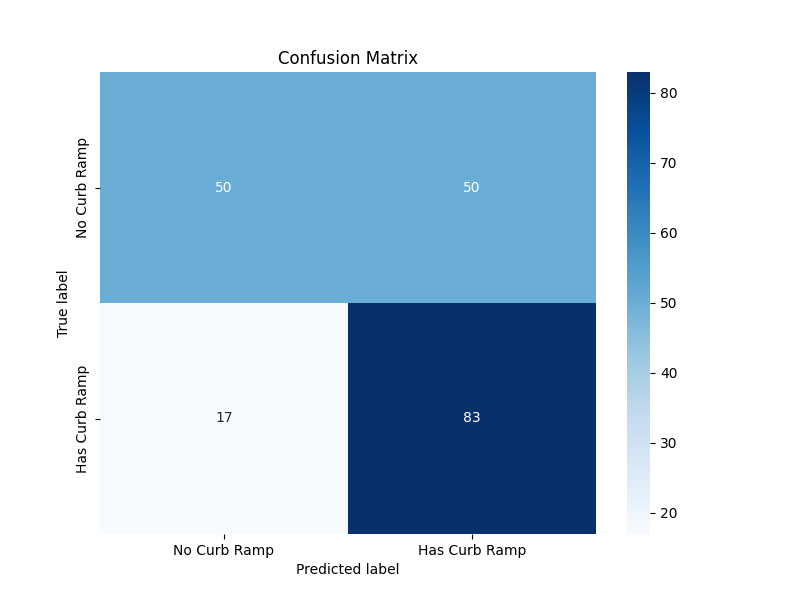
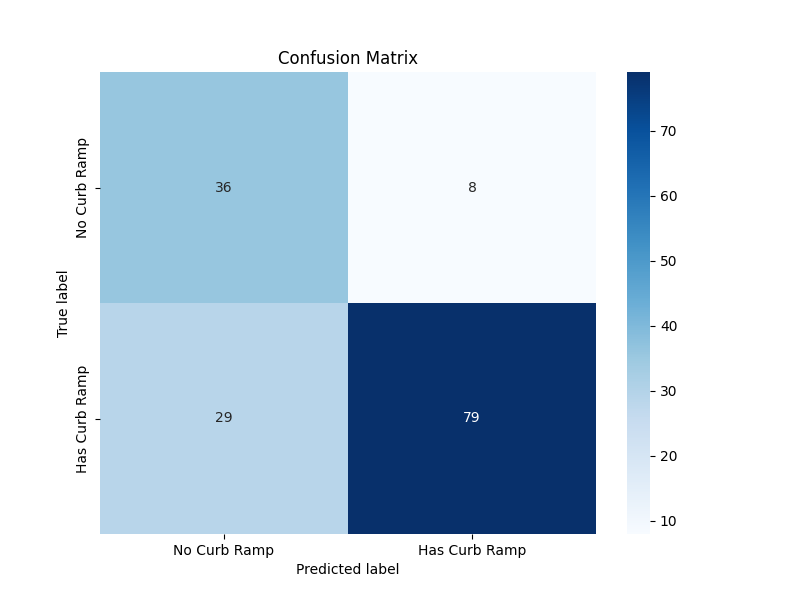
Cosmos and Storage

diff --git a/score_model.py b/score_model.py
@@ -3,18 +3,43 @@ import numpy as np
 import matplotlib.pyplot as plt
 from sklearn.metrics import confusion_matrix
 import seaborn as sns
-import json
+from azure.cosmos import CosmosClient
+import os
+from dotenv import load_dotenv
 
-# read the curb_ramp_list.json file 
-with open("curb_ramp_list.json", "r") as f:
-    data = json.load(f)
+load_dotenv()
+
+cosmos_endpoint = os.getenv("SIDEWALK_COSMOS_URI")
+cosmos_key = os.getenv("SIDEWALK_COSMOS_KEY")
+cosmos_database_name = os.getenv("SIDEWALK_COSMOS_DATABASE")
+cosmos_container_name = os.getenv("SIDEWALK_COSMOS_IMAGE_CONTAINER")
+
+client = CosmosClient(cosmos_endpoint, credential=cosmos_key)
+database = client.get_database_client(cosmos_database_name)
+container = database.get_container_client(cosmos_container_name)
+
+query = "SELECT * FROM c WHERE IS_DEFINED(c.human_review_curb_ramp_label)"
+
+# Execute the query
+items = list(container.query_items(
+    query=query,
+    enable_cross_partition_query=True
+))
+
+# Convert the items into a pandas DataFrame
+data = []
+for item in items:
+    data.append(item)
 
 # Convert the data into a pandas DataFrame
 df = pd.DataFrame(data)
 
+# keep only records where df['human_review_curb_ramp_label'] is 1 and provider is 'Google' and where df['human_review_curb_ramp_label'] is 0 and provider is Microsoft
+df = df[(df['human_review_curb_ramp_label'] == 1) & (df['provider'] == 'Google') | (df['human_review_curb_ramp_label'] == 0) & (df['provider'] == 'Microsoft')]
+
 # Extract the relevant columns
-ground_truth = df["ground_truth_has_curb_ramp"]
-predictions = df["has_curb_ramp"]
+ground_truth = df["human_review_curb_ramp_label"]
+predictions = df["gptv_curb_ramp"]
 
 # Compute the confusion matrix
 cm = confusion_matrix(ground_truth, predictions)
@@ -27,7 +52,10 @@ sns.heatmap(cm, annot=True, fmt='d', cmap='Blues',
 plt.ylabel('True label')
 plt.xlabel('Predicted label')
 plt.title('Confusion Matrix')
+plt.savefig("ConfusionMatrix.png")
 plt.show()
+
+
 
 # Also print the model accuracy
 accuracy = np.trace(cm) / float(np.sum(cm))

diff --git a/detect_curb.py b/detect_curb.py
@@ -1,6 +1,5 @@
 from dotenv import load_dotenv
 from azure.cosmos import CosmosClient
-from VisionPlugin import Vision
 import asyncio
 import os
 from openai import AzureOpenAI
